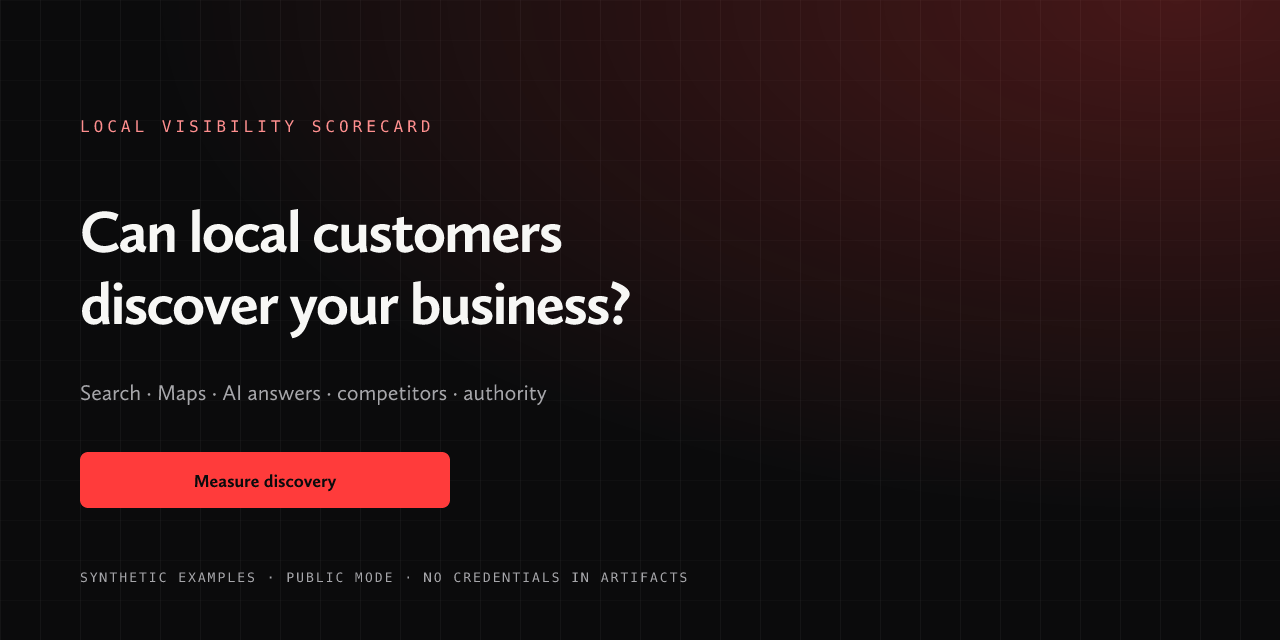
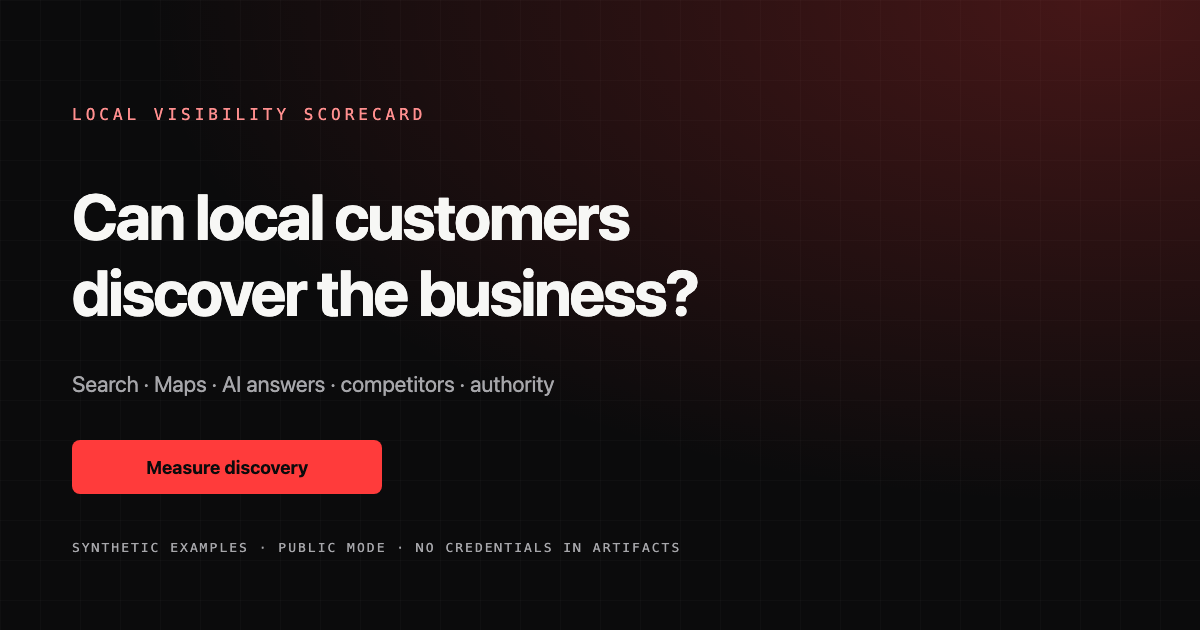
Align visual system and report assets with the scorecard family

diff --git a/docs/assets/extra.css b/docs/assets/extra.css
@@ -1,3 +1,5 @@
+@import url("https://fonts.googleapis.com/css2?family=Space+Grotesk:wght@500;600;700&display=swap");
+
 /* ---------------------------------------------------------------- tokens */
 
 :root {
@@ -297,6 +299,28 @@
 .md-typeset .admonition,
 .md-typeset details {
   border-radius: 8px;
+  border-left-width: 3px;
+}
+
+.md-typeset .admonition.note,
+.md-typeset details.note {
+  border-color: #ff3b3b;
+}
+
+.md-typeset .admonition.note > .admonition-title,
+.md-typeset details.note > summary {
+  background-color: rgba(255, 59, 59, 0.1);
+  border-color: #ff3b3b;
+}
+
+.md-typeset blockquote {
+  border-left: 3px solid #ff3b3b;
+  color: var(--md-default-fg-color--light);
+}
+
+.md-typeset .mermaid {
+  margin: 1.2rem 0;
+  text-align: center;
 }
 
 .md-typeset .admonition-title,

diff --git a/docs/index.md b/docs/index.md
@@ -116,7 +116,37 @@ RAD
 Remediation and operations live elsewhere.
 ```
 
-Local Visibility stops at discovery and comparison. [GBP Scorecard](https://thatguynef.github.io/gbp-scorecard/) diagnoses the profile. [Website Scorecard](https://thatguynef.github.io/website-scorecard/) diagnoses the owned site. The boundaries are explicit in [The Scorecard Family](scorecard-family.md).
+Three independent diagnostics, used in journey order:
+
+<div class="grid cards" markdown>
+
+-   :material-map-search:{ .lg .middle } **Local Visibility Scorecard** · you are here
+
+    ---
+
+    Can prospective customers discover the business across Search, Maps, AI answers, competitors, and external authority?
+
+    [Open the Local Visibility Scorecard →](https://thatguynef.github.io/local-visibility-scorecard/)
+
+-   :material-storefront:{ .lg .middle } **[GBP Scorecard](https://thatguynef.github.io/gbp-scorecard/)**
+
+    ---
+
+    Does the Google Business Profile create trust and enable action — before the customer reaches the website?
+
+    [Open the GBP Scorecard →](https://thatguynef.github.io/gbp-scorecard/)
+
+-   :material-web:{ .lg .middle } **[Website Scorecard](https://thatguynef.github.io/website-scorecard/)**
+
+    ---
+
+    Can the owned website turn that demand into a lead, booking, or estimate?
+
+    [Open the Website Scorecard →](https://thatguynef.github.io/website-scorecard/)
+
+</div>
+
+The boundaries, shared evidence states, and no-duplicate-scoring matrix are in [The Scorecard Family](scorecard-family.md).
 
 > [!NOTE]
 > Every public example is synthetic or sanitized. The repository never ships real client screenshots, reports, customer data, geo-grid coordinates, or connected-account data. The scorecard diagnoses; remediation is a separate system.

diff --git a/docs/README.md b/docs/README.md
@@ -1,5 +1,17 @@
 # Documentation index
 
+## Part of the scorecard family
+
+This is the discovery layer of a three-part diagnostic. Each score is independently meaningful, and none rewrites another.
+
+| Scorecard | Question it answers | Live site |
+|---|---|---|
+| **Local Visibility** (this repository) | Can prospective customers discover the business across Search, Maps, AI answers, competitors, and external authority? | [Open Local Visibility](https://thatguynef.github.io/local-visibility-scorecard/) |
+| **GBP Scorecard** | Does the Google Business Profile create trust and enable action? | [Open GBP Scorecard](https://thatguynef.github.io/gbp-scorecard/) |
+| **Website Scorecard** | Can the owned website convert that demand? | [Open Website Scorecard](https://thatguynef.github.io/website-scorecard/) |
+
+Read [The Scorecard Family](scorecard-family.md) for the ownership matrix and shared conventions.
+
 Start with:
 
 - [Home](index.md)
